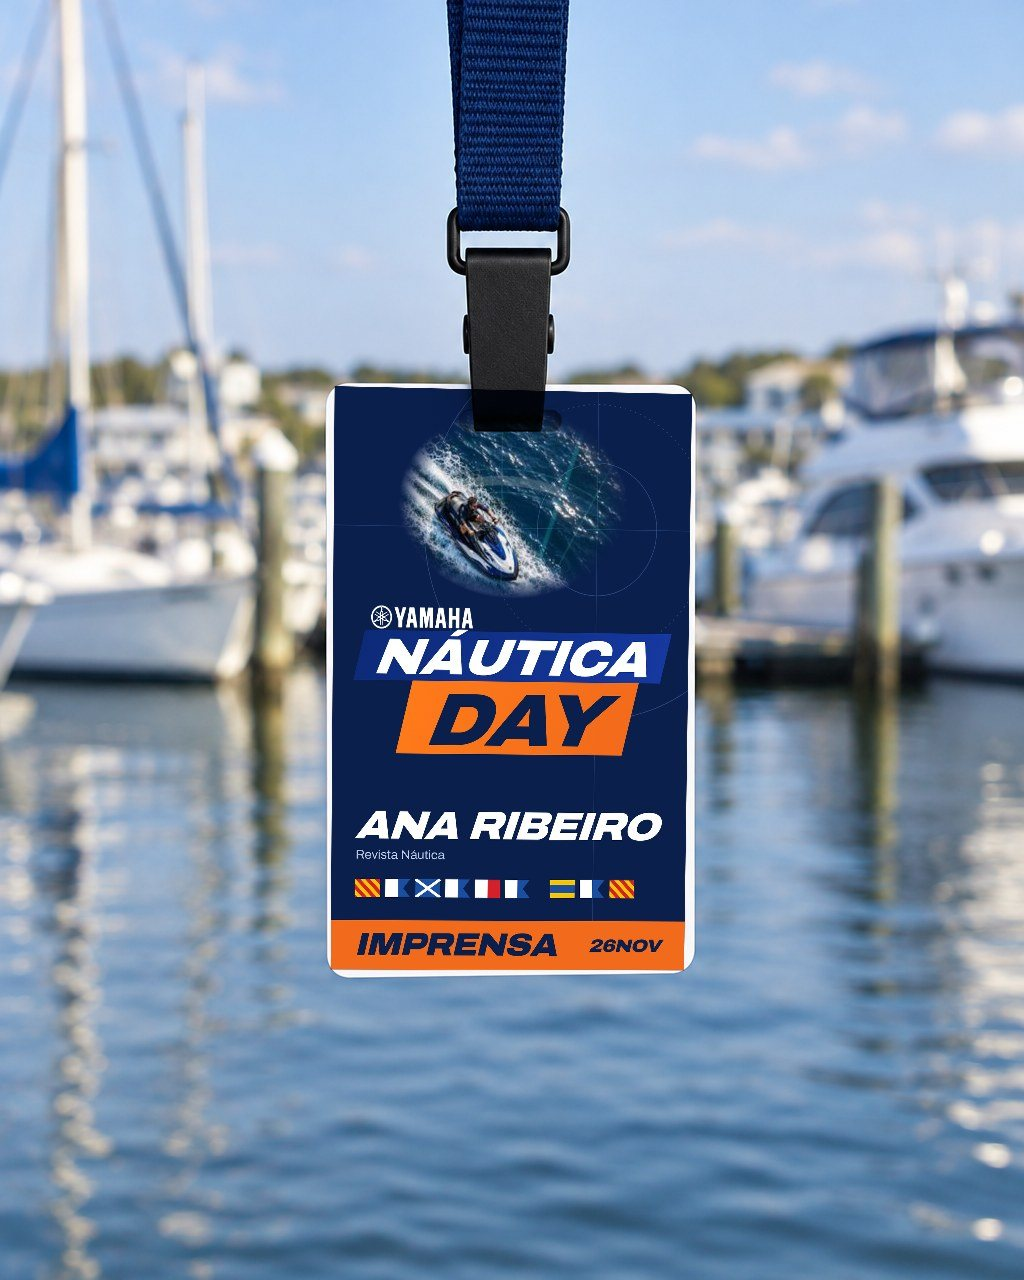
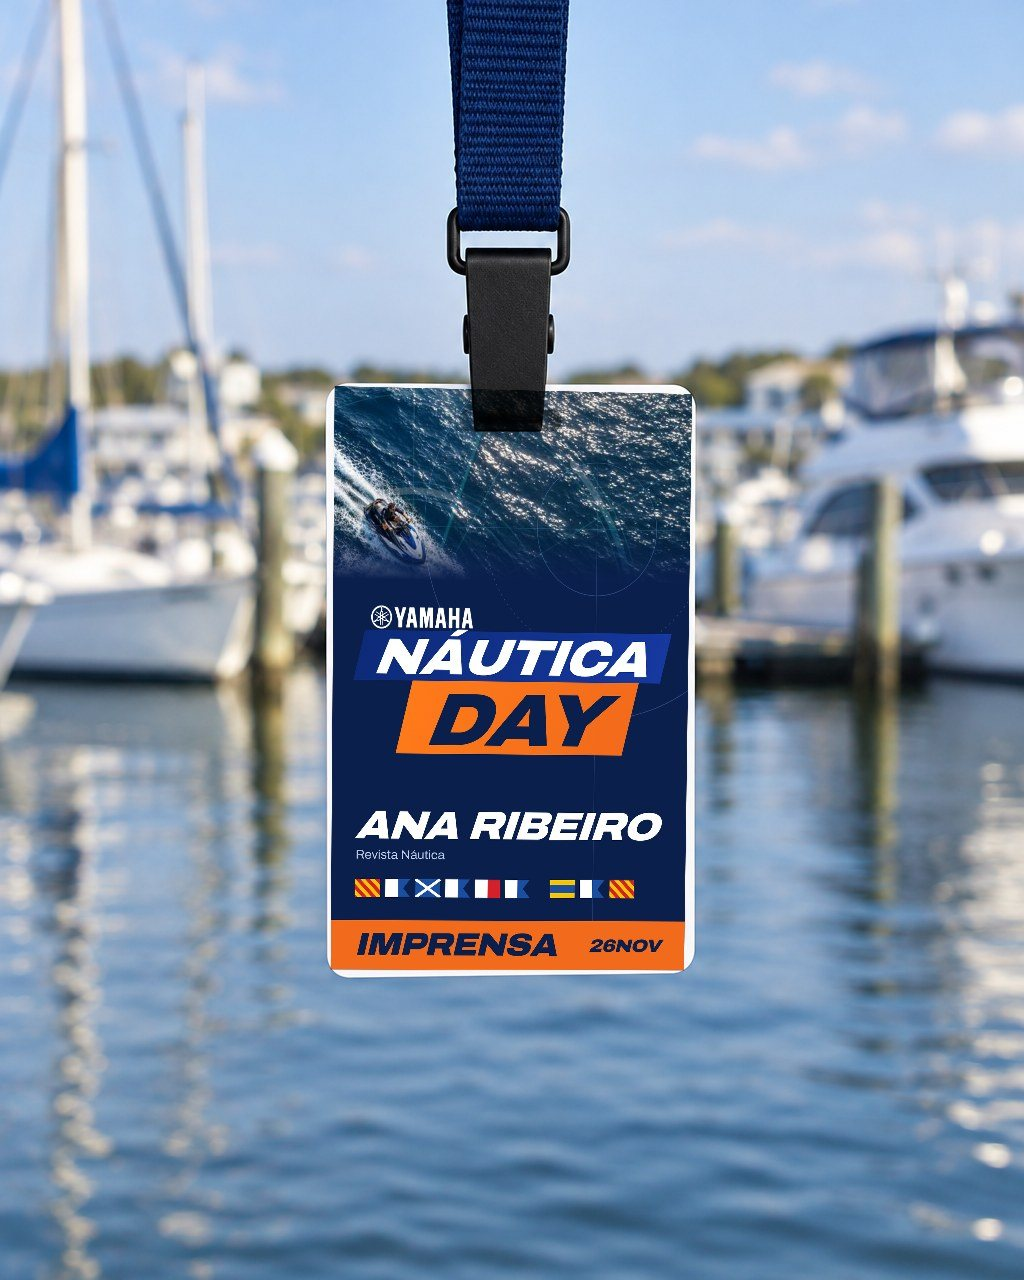
Volta as peças para a versão anterior, mantendo a trilha aleatória
Claude-Session: https://claude.ai/code/session_011PRs9YJZJdpFaPzDBAVnYC

Changed region(s): [[0.3125, 0.2812, 0.6875, 0.4688]]

diff --git a/index.html b/index.html
@@ -500,7 +500,7 @@ function voteBox(){const k=KV[i],liked=!!ls.get("nd-like-"+k.id),c=cnt(k.id);
   <div class="tal">${KV.map((x,n)=>`<div class="row ${ls.get("nd-like-"+x.id)?'me':''}"><span>Rota ${n+1} · ${x.name}</span><b>${dbState==="ok"?cnt(x.id):'–'} ♥</b></div>`).join('')}</div></div>`}
 function bindVote(){const b=$("#vb");if(b)b.onclick=()=>cast(KV[i].id)}
 
-const PCS={"a": [{"t": "Parede de imprensa", "d": "Step-and-repeat com o lockup e o Yamaha + bandeiras D·A·Y alternados, para entrevistas na chegada dos pilotos. É a foto que vai circular.", "sp": [["Formato", "4 × 2,5 m em treliça"], ["Base", "lona front-light"]], "img": "cn-a-press.jpg"}, {"t": "Pórtico", "d": "O KV inteiro no pórtico sobre a água, de frente para o público, na largada das baterias.", "sp": [["Formato", "10 × 3 m"], ["Base", "lona tensionada em treliça"]], "img": "cn-a-stage.jpg"}, {"t": "Convite e agenda digitais", "d": "Para WhatsApp e e-mail, no formato vertical do celular: o convite com a data e o local, e a agenda do dia com os horários do evento.", "sp": [["Formato", "1080 × 1920"], ["Envio", "WhatsApp · e-mail · stories"]], "img": "cn-a-phones.jpg"}, {"t": "Credencial", "d": "Lockup Yamaha + Náutica Day inteiro, uma WaveRunner inteira na luz branca do KV, nome em destaque, bandeiras YAMAHA DAY e faixa laranja por categoria.", "sp": [["Formato", "PVC 9,5 × 14 cm"], ["Categorias", "imprensa · convidado · staff · piloto"]], "img": "cn-a-cred.jpg"}, {"t": "Credencial · arte", "d": "A arte plana da frente, com a margem de segurança respeitada: nada do logo nem da WaveRunner encosta na borda.", "sp": [["Arquivo", "vetor + foto do KV"]], "img": "cn-a-credarte.jpg", "tall": 1}, {"t": "Cordões", "d": "Dois cordões que se alternam: um com Yamaha, o lettering NÁUTICA DAY do KV e as bandeiras YAMAHA DAY, e o laranja com a data, o local e as bandeiras D·A·Y.", "sp": [["Fita", "poliéster 25 mm sublimado"], ["Ferragem", "mosquetão preto fosco"]], "img": "cn-a-lany.jpg"}, {"t": "Bonés", "d": "Navy e branco com aba navy, com o lockup Yamaha + Náutica Day bordado na frente.", "sp": [["Técnica", "bordado"], ["Modelo", "6 gomos, aba curva"]], "img": "cn-a-caps.jpg"}], "b": [{"t": "Parede de imprensa", "d": "Step-and-repeat com o lockup e o Yamaha + bandeiras D·A·Y alternados, para entrevistas na chegada dos pilotos. É a foto que vai circular.", "sp": [["Formato", "4 × 2,5 m em treliça"], ["Base", "lona front-light"]], "img": "cn-b-press.jpg"}, {"t": "Pórtico", "d": "O KV inteiro no pórtico sobre a água, de frente para o público, na largada das baterias.", "sp": [["Formato", "10 × 3 m"], ["Base", "lona tensionada em treliça"]], "img": "cn-b-stage.jpg"}, {"t": "Convite e agenda digitais", "d": "Para WhatsApp e e-mail, no formato vertical do celular: o convite com a data e o local, e a agenda do dia com os horários do evento.", "sp": [["Formato", "1080 × 1920"], ["Envio", "WhatsApp · e-mail · stories"]], "img": "cn-b-phones.jpg"}, {"t": "Credencial", "d": "Lockup Yamaha + Náutica Day inteiro, uma WaveRunner inteira no navy da carta náutica, nome em destaque, bandeiras YAMAHA DAY e faixa laranja por categoria.", "sp": [["Formato", "PVC 9,5 × 14 cm"], ["Categorias", "imprensa · convidado · staff · piloto"]], "img": "cn-b-cred.jpg"}, {"t": "Credencial · arte", "d": "A arte plana da frente, com a margem de segurança respeitada: nada do logo nem da WaveRunner encosta na borda.", "sp": [["Arquivo", "vetor + foto do KV"]], "img": "cn-b-credarte.jpg", "tall": 1}, {"t": "Cordões", "d": "Dois cordões que se alternam: um com Yamaha, o lettering NÁUTICA DAY do KV e as bandeiras YAMAHA DAY, e o laranja com a data, o local e as bandeiras D·A·Y.", "sp": [["Fita", "poliéster 25 mm sublimado"], ["Ferragem", "mosquetão preto fosco"]], "img": "cn-b-lany.jpg"}, {"t": "Bonés", "d": "Navy e branco com aba navy, com o lockup Yamaha + Náutica Day bordado na frente.", "sp": [["Técnica", "bordado"], ["Modelo", "6 gomos, aba curva"]], "img": "cn-b-caps.jpg"}], "c": [{"t": "Parede de imprensa", "d": "Step-and-repeat com o lockup e o Yamaha + bandeiras D·A·Y alternados, para entrevistas na chegada dos pilotos. É a foto que vai circular.", "sp": [["Formato", "4 × 2,5 m em treliça"], ["Base", "lona front-light"]], "img": "cn-c-press.jpg"}, {"t": "Pórtico", "d": "O KV inteiro no pórtico sobre a água, de frente para o público, na largada das baterias.", "sp": [["Formato", "10 × 3 m"], ["Base", "lona tensionada em treliça"]], "img": "cn-c-stage.jpg"}, {"t": "Convite e agenda digitais", "d": "Para WhatsApp e e-mail, no formato vertical do celular: o convite com a data e o local, e a agenda do dia com os horários do evento.", "sp": [["Formato", "1080 × 1920"], ["Envio", "WhatsApp · e-mail · stories"]], "img": "cn-c-phones.jpg"}, {"t": "Credencial", "d": "Lockup Yamaha + Náutica Day inteiro, uma WaveRunner inteira nas tarjas de largada, nome em destaque, bandeiras YAMAHA DAY e faixa laranja por categoria.", "sp": [["Formato", "PVC 9,5 × 14 cm"], ["Categorias", "imprensa · convidado · staff · piloto"]], "img": "cn-c-cred.jpg"}, {"t": "Credencial · arte", "d": "A arte plana da frente, com a margem de segurança respeitada: nada do logo nem da WaveRunner encosta na borda.", "sp": [["Arquivo", "vetor + foto do KV"]], "img": "cn-c-credarte.jpg", "tall": 1}, {"t": "Cordões", "d": "Frente navy com Yamaha, as tarjas NÁUTICA / DAY e as bandeiras YAMAHA DAY. Verso laranja com NÁUTICA DAY em lettering repetido ao longo da fita.", "sp": [["Fita", "poliéster 25 mm sublimado"], ["Ferragem", "mosquetão preto fosco"]], "img": "cn-c-lany.jpg"}, {"t": "Camisetas", "d": "Navy com a estampa grande nas costas e branca com a assinatura no peito. Tudo em vetor, cores chapadas, pronto para silk.", "sp": [["Base", "algodão 200 g, oversized"], ["Técnica", "silk em 2 a 4 cores"]], "img": "cn-c-tees.jpg"}, {"t": "Bonés", "d": "Navy e branco com aba navy, com o lockup Yamaha + Náutica Day bordado na frente.", "sp": [["Técnica", "bordado"], ["Modelo", "6 gomos, aba curva"]], "img": "cn-c-caps.jpg"}, {"t": "Camisetas · variação", "d": "Variação já aprovada: navy com as tarjas no peito e as listras na lateral, e laranja com o radar nas costas.", "sp": [["Base", "algodão 200 g, oversized"], ["Técnica", "silk em 2 cores"]], "img": "pz-c-camisetas.jpg"}]};
+const PCS={"a": [{"t": "Backdrop", "d": "O KV inteiro numa parede de 8 m na área de recepção do Refúgio, com o lockup, a data e as bandeiras livres de qualquer obstáculo.", "sp": [["Formato", "8 × 4,5 m"], ["Base", "lona front-light ou tecido tensionado"]], "img": "cn-a-wall.jpg"}, {"t": "Wind banners", "d": "Quatro wind banners no píer alternando dois modelos: o lockup com a WaveRunner inteira, e o laranja com Yamaha, as bandeiras D·A·Y e a data.", "sp": [["Formato", "pena, 3,5 m"], ["Base", "tecido sublimado + base com peso"]], "img": "cn-a-wind.jpg"}, {"t": "Convite e agenda digitais", "d": "Para WhatsApp e e-mail, no formato vertical do celular: o convite com a data e o local, e a agenda do dia com os horários do evento.", "sp": [["Formato", "1080 × 1920"], ["Envio", "WhatsApp · e-mail · stories"]], "img": "cn-a-phones.jpg"}, {"t": "Credencial", "d": "Lockup Yamaha + Náutica Day inteiro, uma WaveRunner inteira na luz branca do KV, nome em destaque, bandeiras YAMAHA DAY e faixa laranja por categoria.", "sp": [["Formato", "PVC 9,5 × 14 cm"], ["Categorias", "imprensa · convidado · staff · piloto"]], "img": "cn-a-cred.jpg"}, {"t": "Credencial · arte", "d": "A arte plana da frente, com a margem de segurança respeitada: nada do logo nem da WaveRunner encosta na borda.", "sp": [["Arquivo", "vetor + foto do KV"]], "img": "cn-a-credarte.jpg", "tall": 1}, {"t": "Cordões", "d": "Dois cordões que se alternam: um com Yamaha, o lettering NÁUTICA DAY do KV e as bandeiras YAMAHA DAY, e o laranja com a data, o local e as bandeiras D·A·Y.", "sp": [["Fita", "poliéster 25 mm sublimado"], ["Ferragem", "mosquetão preto fosco"]], "img": "cn-a-lany.jpg"}, {"t": "Camisetas", "d": "Navy com a estampa grande nas costas e branca com a assinatura no peito. Tudo em vetor, cores chapadas, pronto para silk.", "sp": [["Base", "algodão 200 g, oversized"], ["Técnica", "silk em 2 a 4 cores"]], "img": "cn-a-tees.jpg"}, {"t": "Bonés", "d": "Navy e branco com aba navy, com o lockup Yamaha + Náutica Day bordado na frente.", "sp": [["Técnica", "bordado"], ["Modelo", "6 gomos, aba curva"]], "img": "cn-a-caps.jpg"}, {"t": "Kit de bordo", "d": "Caixa com o lockup do KV na tampa e as bandeiras YAMAHA DAY; ecobag com Yamaha e as bandeiras D·A·Y. Dentro: boné, óculos, garrafa, toalha e protetor solar.", "sp": [["Embalagem", "caixa rígida + ecobag de algodão"]], "img": "cn-a-kit.jpg"}], "b": [{"t": "Backdrop", "d": "O KV inteiro numa parede de 8 m na área de recepção do Refúgio, com o lockup, a data e as bandeiras livres de qualquer obstáculo.", "sp": [["Formato", "8 × 4,5 m"], ["Base", "lona front-light ou tecido tensionado"]], "img": "cn-b-wall.jpg"}, {"t": "Wind banners", "d": "Quatro wind banners no píer alternando dois modelos: o lockup com a WaveRunner inteira, e o laranja com Yamaha, as bandeiras D·A·Y e a data.", "sp": [["Formato", "pena, 3,5 m"], ["Base", "tecido sublimado + base com peso"]], "img": "cn-b-wind.jpg"}, {"t": "Convite e agenda digitais", "d": "Para WhatsApp e e-mail, no formato vertical do celular: o convite com a data e o local, e a agenda do dia com os horários do evento.", "sp": [["Formato", "1080 × 1920"], ["Envio", "WhatsApp · e-mail · stories"]], "img": "cn-b-phones.jpg"}, {"t": "Credencial", "d": "Lockup Yamaha + Náutica Day inteiro, uma WaveRunner inteira no navy da carta náutica, nome em destaque, bandeiras YAMAHA DAY e faixa laranja por categoria.", "sp": [["Formato", "PVC 9,5 × 14 cm"], ["Categorias", "imprensa · convidado · staff · piloto"]], "img": "cn-b-cred.jpg"}, {"t": "Credencial · arte", "d": "A arte plana da frente, com a margem de segurança respeitada: nada do logo nem da WaveRunner encosta na borda.", "sp": [["Arquivo", "vetor + foto do KV"]], "img": "cn-b-credarte.jpg", "tall": 1}, {"t": "Cordões", "d": "Dois cordões que se alternam: um com Yamaha, o lettering NÁUTICA DAY do KV e as bandeiras YAMAHA DAY, e o laranja com a data, o local e as bandeiras D·A·Y.", "sp": [["Fita", "poliéster 25 mm sublimado"], ["Ferragem", "mosquetão preto fosco"]], "img": "cn-b-lany.jpg"}, {"t": "Camisetas", "d": "Navy com a estampa grande nas costas e branca com a assinatura no peito. Tudo em vetor, cores chapadas, pronto para silk.", "sp": [["Base", "algodão 200 g, oversized"], ["Técnica", "silk em 2 a 4 cores"]], "img": "cn-b-tees.jpg"}, {"t": "Bonés", "d": "Navy e branco com aba navy, com o lockup Yamaha + Náutica Day bordado na frente.", "sp": [["Técnica", "bordado"], ["Modelo", "6 gomos, aba curva"]], "img": "cn-b-caps.jpg"}, {"t": "Kit de bordo", "d": "Caixa com o lockup do KV na tampa e as bandeiras YAMAHA DAY; ecobag com Yamaha e as bandeiras D·A·Y. Dentro: boné, óculos, garrafa, toalha e protetor solar.", "sp": [["Embalagem", "caixa rígida + ecobag de algodão"]], "img": "cn-b-kit.jpg"}], "c": [{"t": "Backdrop", "d": "O KV inteiro numa parede de 8 m na área de recepção do Refúgio, com o lockup, a data e as bandeiras livres de qualquer obstáculo.", "sp": [["Formato", "8 × 4,5 m"], ["Base", "lona front-light ou tecido tensionado"]], "img": "cn-c-wall.jpg"}, {"t": "Wind banners", "d": "Quatro wind banners no píer alternando dois modelos: o lockup com a WaveRunner inteira, e o laranja com Yamaha, as bandeiras D·A·Y e a data.", "sp": [["Formato", "pena, 3,5 m"], ["Base", "tecido sublimado + base com peso"]], "img": "cn-c-wind.jpg"}, {"t": "Convite e agenda digitais", "d": "Para WhatsApp e e-mail, no formato vertical do celular: o convite com a data e o local, e a agenda do dia com os horários do evento.", "sp": [["Formato", "1080 × 1920"], ["Envio", "WhatsApp · e-mail · stories"]], "img": "cn-c-phones.jpg"}, {"t": "Credencial", "d": "Lockup Yamaha + Náutica Day inteiro, uma WaveRunner inteira nas tarjas de largada, nome em destaque, bandeiras YAMAHA DAY e faixa laranja por categoria.", "sp": [["Formato", "PVC 9,5 × 14 cm"], ["Categorias", "imprensa · convidado · staff · piloto"]], "img": "cn-c-cred.jpg"}, {"t": "Credencial · arte", "d": "A arte plana da frente, com a margem de segurança respeitada: nada do logo nem da WaveRunner encosta na borda.", "sp": [["Arquivo", "vetor + foto do KV"]], "img": "cn-c-credarte.jpg", "tall": 1}, {"t": "Cordões", "d": "Dois cordões que se alternam: um com Yamaha, o lettering NÁUTICA DAY do KV e as bandeiras YAMAHA DAY, e o laranja com a data, o local e as bandeiras D·A·Y.", "sp": [["Fita", "poliéster 25 mm sublimado"], ["Ferragem", "mosquetão preto fosco"]], "img": "cn-c-lany.jpg"}, {"t": "Camisetas", "d": "Navy com a estampa grande nas costas e branca com a assinatura no peito. Tudo em vetor, cores chapadas, pronto para silk.", "sp": [["Base", "algodão 200 g, oversized"], ["Técnica", "silk em 2 a 4 cores"]], "img": "cn-c-tees.jpg"}, {"t": "Bonés", "d": "Navy e branco com aba navy, com o lockup Yamaha + Náutica Day bordado na frente.", "sp": [["Técnica", "bordado"], ["Modelo", "6 gomos, aba curva"]], "img": "cn-c-caps.jpg"}, {"t": "Kit de bordo", "d": "Caixa com o lockup do KV na tampa e as bandeiras YAMAHA DAY; ecobag com Yamaha e as bandeiras D·A·Y. Dentro: boné, óculos, garrafa, toalha e protetor solar.", "sp": [["Embalagem", "caixa rígida + ecobag de algodão"]], "img": "cn-c-kit.jpg"}, {"t": "Camisetas · variação", "d": "Variação já aprovada: navy com as tarjas no peito e as listras na lateral, e laranja com o radar nas costas.", "sp": [["Base", "algodão 200 g, oversized"], ["Técnica", "silk em 2 cores"]], "img": "pz-c-camisetas.jpg"}]};
 function renderB(keep){const k=KV[i],nx=KV[(i+1)%3];
  sheet.classList.add("rB");
  sheet.innerHTML=`<div class="top"><button id="bk">← Voltar<kbd>Esc</kbd></button><span class="nm">Rota ${i+1} · ${k.name}</span><span class="nv"><button id="rp" aria-label="Rota anterior">←</button><button id="rn" aria-label="Próxima rota">→</button></span></div>
